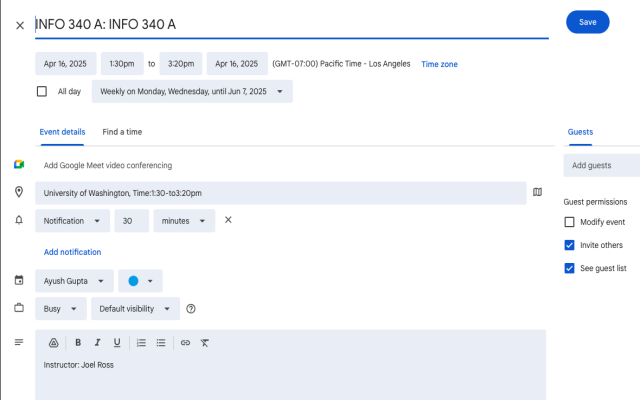
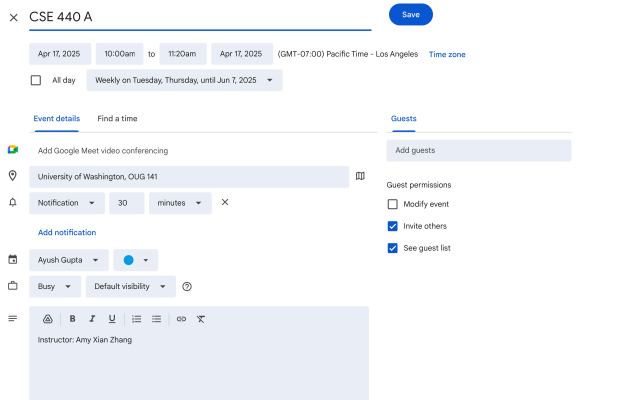
Fix bugs

diff --git a/content.js b/content.js
@@ -109,7 +109,7 @@ function processTable(table) {
         const startTime = timeElements[0]?.innerText.trim() || "";
         const endTime = timeElements[1]?.innerText.trim() || "";
         const time = startTime && endTime ? `${startTime}-${endTime}` : "TBA";
-        const locationDiv = meetingCell.querySelectorAll("div")[2];
+        const locationDiv = meetingCell.querySelectorAll("div")[3];
         const location = locationDiv ? locationDiv.innerText.trim().replace("Location:", "").trim() : "TBA";
         
         const course = {
@@ -353,7 +353,7 @@ function downloadICSForCourse(course) {
     const { startTime, endTime } = convertTime(course.time, course.days, quarterInfo);
 
     const event = {
-        title: `${course.courseNumber}: ${course.title}`,
+        title: course.courseNumber, // Changed from `${course.courseNumber}: ${course.title}`
         description: `Instructor: ${course.instructor}`,
         location: `University of Washington, ${course.location}`,
         start: startTime.replace(/-|:/g, ''),
@@ -394,12 +394,10 @@ END:VCALENDAR`;
 function prepareGoogleCalendarEventUrl(course, quarterInfo) {
     const { startTime, endTime } = convertTime(course.time, course.days, quarterInfo);
 
-    console.log(`Start time: ${startTime}, End time: ${endTime}`);
-
     const baseUrl = "https://calendar.google.com/calendar/r/eventedit";
 
     const params = new URLSearchParams({
-        text: `${course.courseNumber}: ${course.title}`,
+        text: course.courseNumber, // Changed from `${course.courseNumber}: ${course.title}`
         dates: `${startTime.replace(/-|:/g, '')}/${endTime.replace(/-|:/g, '')}`,
         ctz: 'America/Los_Angeles',
         details: course.instructor === "TBA" ? "" : `Instructor: ${course.instructor}`,
@@ -407,11 +405,7 @@ function prepareGoogleCalendarEventUrl(course, quarterInfo) {
         recur: `RRULE:FREQ=WEEKLY;BYDAY=${convertDaysToRecurrence(course.days)};UNTIL=${getQuarterEndDate(quarterInfo)}`
     });
 
-    const eventUrl = `${baseUrl}?${params.toString()}`;
-
-    console.log(`Google Calendar Event URL: ${eventUrl}`);
-
-    return eventUrl;
+    return `${baseUrl}?${params.toString()}`;
 }
 
 /**
